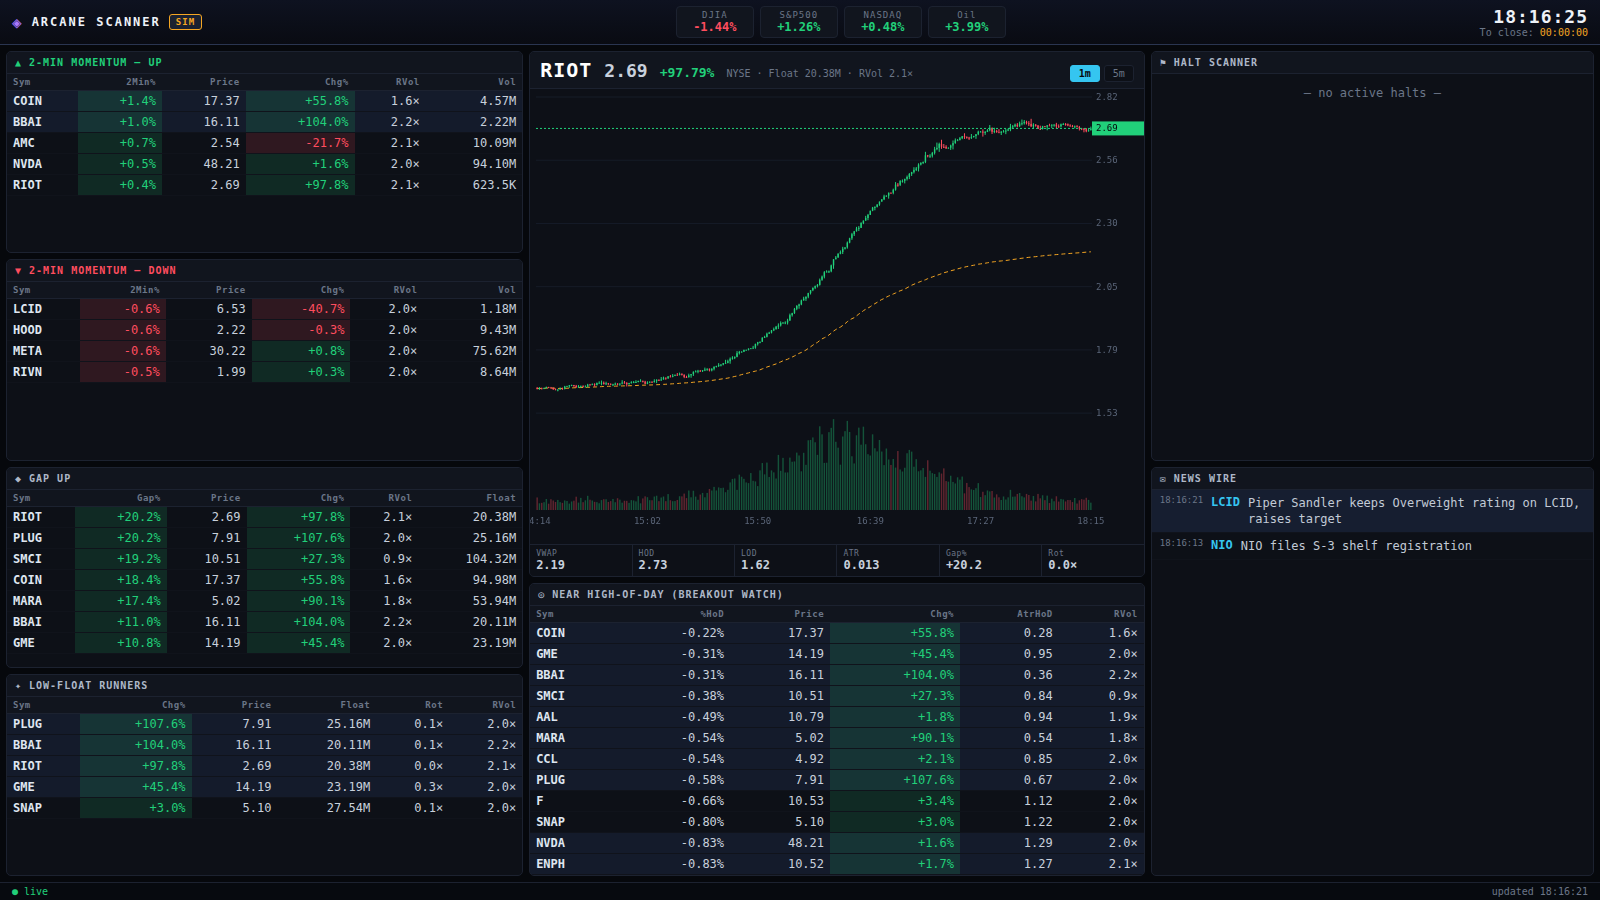
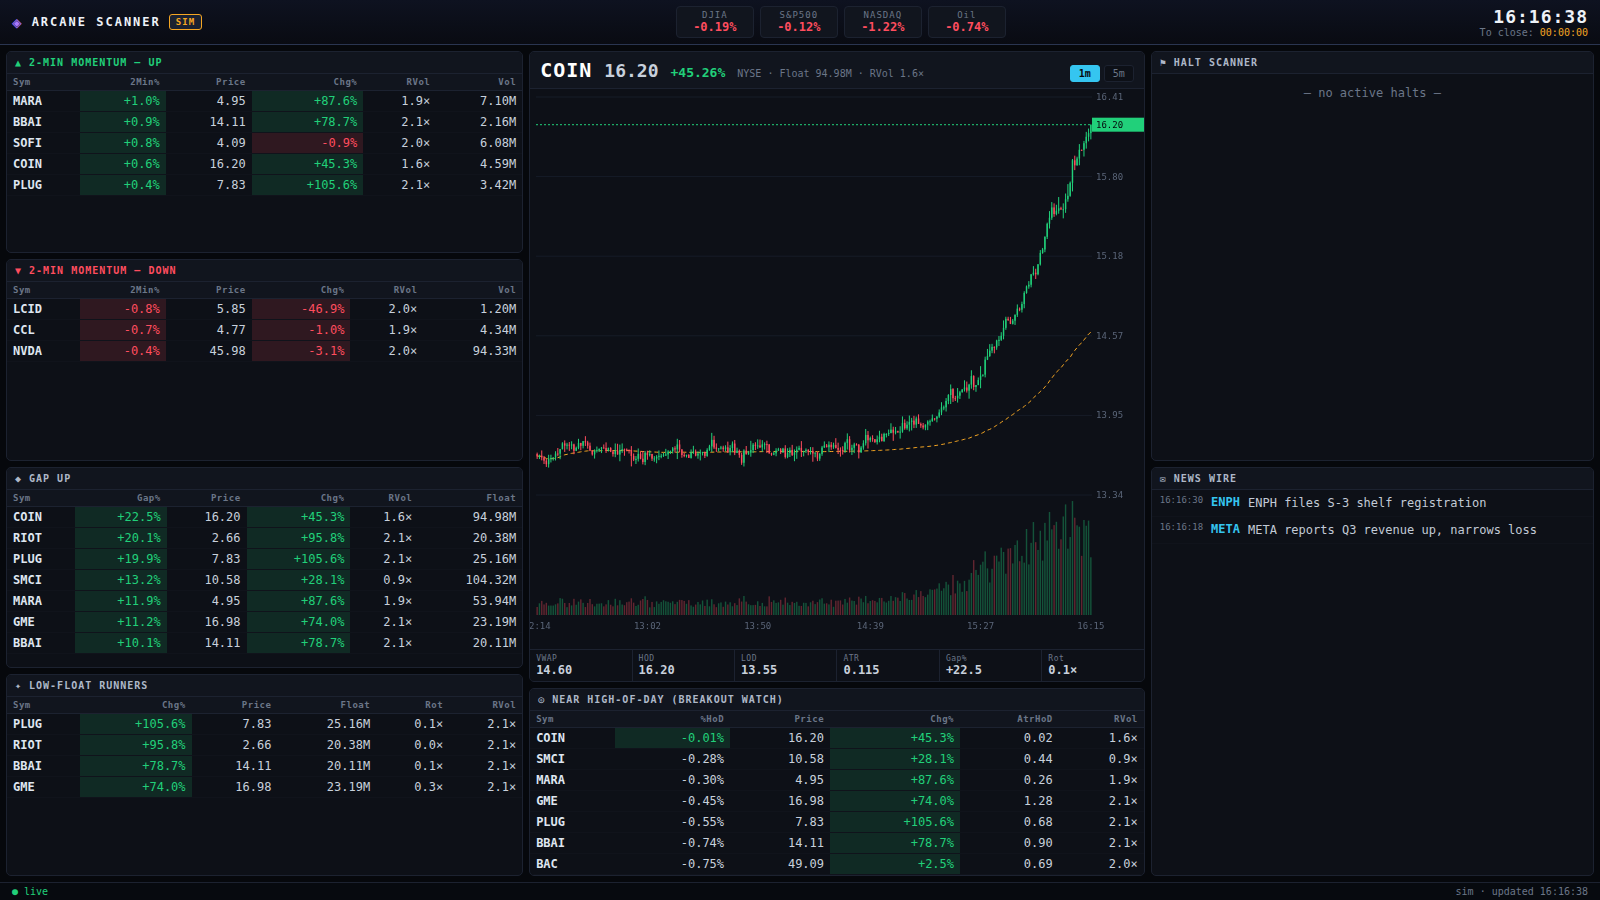
Make it bulletproof to launch and load
Addresses "it won't load" and simplifies running it:

- Add one-command launcher start.py (installs deps, starts server, opens
  browser) plus double-click wrappers Start-Windows.bat / Start-Mac.command
  so no terminal juggling is needed.
- Frontend now loads data over plain HTTP first and uses the websocket only
  for live push, with an automatic HTTP polling fallback — a blocked or slow
  websocket can no longer leave a blank page.
- Add an explicit loading state and dedupe repeated snapshots.
- Switch backend startup to the modern lifespan handler (the deprecated
  on_event can misbehave on newer FastAPI / Python 3.14).
- Serve chart candles from the cached snapshot instead of firing a fresh
  Yahoo download on every chart update.
- Yahoo provider falls back to coarser bars when 1-min data is empty
  (after hours / weekends) so panels still populate.

Claude-Session: https://claude.ai/code/session_01Eh5fowTrvjD9c8LqqE4Hmn

diff --git a/frontend/app.js b/frontend/app.js
@@ -279,11 +279,21 @@ function tickClock() {
 }
 
 /* ---------- snapshot ---------- */
+let lastUpdated = -1;
 function applySnapshot(msg) {
+  if (!msg || msg.updated === lastUpdated) return;   // skip duplicates
+  lastUpdated = msg.updated;
   state.serverOffset = msg.server_time - Date.now() / 1000;
+
   const tag = $("provider-tag");
   tag.textContent = msg.provider === "yahoo" ? "LIVE" : "SIM";
   tag.className = "tag " + (msg.provider === "yahoo" ? "live" : "sim");
+
+  if (msg.loading) {
+    $("status").textContent = "● loading market data…";
+    $("status").className = "";
+    return;   // nothing to render yet
+  }
 
   Object.keys(SCAN_COLS).forEach((id) => renderScan(id, msg.scans[id]));
   renderHalts(msg.halts);
@@ -293,27 +303,49 @@ function applySnapshot(msg) {
   if (!state.focus) {
     // default to the strongest runner so the chart opens on something moving
     const first = (msg.scans.gappers[0] || msg.scans.momo_up[0] ||
-                   msg.scans.low_float_runners[0] || { symbol: msg.focus[0] });
-    if (first) selectFocus(first.symbol);
+                   msg.scans.low_float_runners[0] ||
+                   (msg.focus && { symbol: msg.focus[0] }));
+    if (first && first.symbol) selectFocus(first.symbol);
   } else {
-    // refresh focus header from latest scan rows if present
-    loadBars();
+    loadBars();   // keep the focused chart fresh
   }
-  $("last-update").textContent = "updated " + hhmmss(msg.updated);
+  $("last-update").textContent =
+    (msg.provider === "yahoo" ? "live · " : "sim · ") + "updated " + hhmmss(msg.updated);
 }
 
-/* ---------- websocket ---------- */
-function connect() {
+/* ---------- data transport: HTTP first, websocket for live push ---------- */
+async function fetchSnapshotOnce() {
+  try {
+    const r = await fetch("/api/snapshot", { cache: "no-store" });
+    if (r.ok) applySnapshot(await r.json());
+    return true;
+  } catch (e) { return false; }
+}
+
+let wsConnected = false;
+function connectWS() {
   const proto = location.protocol === "https:" ? "wss" : "ws";
-  const sock = new WebSocket(`${proto}://${location.host}/ws`);
+  let sock;
+  try { sock = new WebSocket(`${proto}://${location.host}/ws`); }
+  catch (e) { return; }
   const st = $("status");
-  sock.onopen = () => { st.textContent = "● live"; st.className = "ok"; };
+  sock.onopen = () => {
+    wsConnected = true;
+    st.textContent = "● live"; st.className = "ok";
+  };
   sock.onmessage = (ev) => applySnapshot(JSON.parse(ev.data));
   sock.onclose = () => {
-    st.textContent = "● disconnected — retrying"; st.className = "err";
-    setTimeout(connect, 2000);
+    wsConnected = false;
+    st.textContent = "● reconnecting…"; st.className = "err";
+    setTimeout(connectWS, 2000);
   };
-  sock.onerror = () => sock.close();
+  sock.onerror = () => { try { sock.close(); } catch (e) {} };
+}
+
+/* Polling fallback: if the websocket never connects (e.g. blocked by a
+ * firewall/proxy), keep the dashboard live over plain HTTP. */
+function startPollingFallback() {
+  setInterval(() => { if (!wsConnected) fetchSnapshotOnce(); }, 5000);
 }
 
 /* ---------- boot ---------- */
@@ -328,4 +360,14 @@ document.querySelectorAll(".tf").forEach((btn) => {
 window.addEventListener("resize", () => drawChart());
 setInterval(tickClock, 1000);
 tickClock();
-connect();
+
+// Render whatever's available right now over HTTP, then attach the live feed.
+$("status").textContent = "● loading…";
+fetchSnapshotOnce();
+connectWS();
+startPollingFallback();
+// keep retrying the first fetch until data arrives
+const bootPoll = setInterval(async () => {
+  if (lastUpdated > 0) { clearInterval(bootPoll); return; }
+  await fetchSnapshotOnce();
+}, 1500);

diff --git a/backend/main.py b/backend/main.py
@@ -1,10 +1,12 @@
 """FastAPI app: REST endpoints + a websocket that streams scans live.
 
-Run with:  uvicorn backend.main:app --reload   (or ./run.sh)
+Run with:  python start.py        (recommended, cross-platform)
+       or  uvicorn backend.main:app
 """
 from __future__ import annotations
 
 import asyncio
+import contextlib
 import time
 from pathlib import Path
 
@@ -19,9 +21,13 @@ from backend.providers.factory import make_provider
 
 FRONTEND_DIR = Path(__file__).resolve().parent.parent / "frontend"
 
-app = FastAPI(title="Stock Scanner / Trade Ideas Dashboard")
-
 provider, provider_name = make_provider(config.UNIVERSE)
+
+
+def _interval() -> float:
+    """Live data polls slower than the simulator to respect rate limits."""
+    return (config.LIVE_REFRESH_SECONDS if provider_name == "yahoo"
+            else config.REFRESH_SECONDS)
 
 
 class Snapshot:
@@ -33,20 +39,30 @@ class Snapshot:
         self.news: list[dict] = []
         self.indices: list[dict] = []
         self.halts: list[dict] = []
+        self.bars: dict[str, list] = {}   # symbol -> list[Bar] (1-min session)
         self.updated: float = 0.0
+        self.error: str = ""
         self.provider = provider_name
 
     def refresh(self):
         quotes = provider.get_quotes(config.UNIVERSE)
         now = time.time()
-        rows = [m for q in quotes if (m := metrics_engine.compute(q, now))]
+        rows = []
+        bars = {}
+        for q in quotes:
+            m = metrics_engine.compute(q, now)
+            if m:
+                rows.append(m)
+                bars[q.symbol] = q.bars
         self.rows = rows
+        self.bars = bars
         self.scans = scanners.run_all(rows)
         self.news = [n.__dict__ for n in provider.get_news(30)]
         self.indices = [i.__dict__ for i in provider.get_indices()]
         halts_fn = getattr(provider, "get_halts", None)
         if halts_fn:
             self.halts = [h.__dict__ for h in halts_fn()]
+        self.error = "" if rows else "no market data returned"
         self.updated = now
 
     def payload(self) -> dict:
@@ -55,6 +71,8 @@ class Snapshot:
             "provider": self.provider,
             "updated": self.updated,
             "server_time": time.time(),
+            "loading": self.updated == 0.0,
+            "error": self.error,
             "scans": self.scans,
             "news": self.news,
             "indices": self.indices,
@@ -66,27 +84,29 @@ class Snapshot:
 snapshot = Snapshot()
 
 
-def _interval() -> float:
-    """Live data polls slower than the simulator to respect rate limits."""
-    return (config.LIVE_REFRESH_SECONDS if provider_name == "yahoo"
-            else config.REFRESH_SECONDS)
-
-
-@app.on_event("startup")
-async def _startup():
-    # Don't block startup on the first (possibly slow) live fetch — let the
-    # server come up immediately and populate on the background loop.
-    asyncio.create_task(_refresh_loop())
-
-
 async def _refresh_loop():
     interval = _interval()
     while True:
         try:
             await asyncio.to_thread(snapshot.refresh)
         except Exception as e:  # noqa: BLE001
+            snapshot.error = str(e)
             print(f"[refresh] error: {e}")
         await asyncio.sleep(interval)
+
+
+@contextlib.asynccontextmanager
+async def lifespan(app: FastAPI):
+    # Start the background refresh without blocking server startup, so the
+    # page is reachable immediately and fills in as data arrives.
+    task = asyncio.create_task(_refresh_loop())
+    yield
+    task.cancel()
+    with contextlib.suppress(asyncio.CancelledError):
+        await task
+
+
+app = FastAPI(title="Stock Scanner / Trade Ideas Dashboard", lifespan=lifespan)
 
 
 # --- REST -----------------------------------------------------------------
@@ -119,14 +139,19 @@ def get_quote(symbol: str):
 
 @app.get("/api/bars/{symbol}")
 def get_bars(symbol: str, interval: str = "1m"):
-    """Return session candles for the chart. interval: 1m or 5m."""
-    quotes = provider.get_quotes([symbol.upper()])
-    if not quotes or not quotes[0].bars:
+    """Return session candles for the chart, served from the cached snapshot
+    (refreshed on the background loop) so opening a chart never triggers an
+    extra live fetch."""
+    sym = symbol.upper()
+    bars = snapshot.bars.get(sym)
+    if not bars:                       # fall back to an on-demand fetch
+        quotes = provider.get_quotes([sym])
+        bars = quotes[0].bars if quotes else None
+    if not bars:
         return JSONResponse({"error": "no data"}, status_code=404)
-    bars = quotes[0].bars
     if interval == "5m":
         bars = _resample(bars, 5)
-    return {"symbol": symbol.upper(), "interval": interval,
+    return {"symbol": sym, "interval": interval,
             "bars": [b.as_dict() for b in bars]}
 
 

diff --git a/start.py b/start.py
@@ -1,0 +1,74 @@
+#!/usr/bin/env python3
+"""One-command launcher for the Stock Scanner dashboard.
+
+Does everything for you:
+  1. installs any missing Python packages,
+  2. starts the server,
+  3. opens the dashboard in your browser.
+
+Run it with:   python start.py       (Windows)
+           or  python3 start.py      (Mac / Linux)
+
+Environment overrides (optional):
+  SCANNER_PROVIDER=simulated   force the offline demo (no internet needed)
+  SCANNER_PORT=8000            change the port
+"""
+from __future__ import annotations
+
+import os
+import subprocess
+import sys
+import threading
+import time
+import webbrowser
+
+PORT = int(os.environ.get("SCANNER_PORT", "8000"))
+URL = f"http://localhost:{PORT}"
+
+
+def ensure_dependencies() -> None:
+    try:
+        import fastapi  # noqa: F401
+        import uvicorn  # noqa: F401
+        import yfinance  # noqa: F401
+        return
+    except ImportError:
+        pass
+    print("→ Installing required packages (first run only)…\n")
+    req = os.path.join(os.path.dirname(os.path.abspath(__file__)), "requirements.txt")
+    subprocess.check_call([sys.executable, "-m", "pip", "install", "-r", req])
+    print("\n→ Packages installed.\n")
+
+
+def open_browser_when_ready() -> None:
+    # Give the server a moment to bind, then open the browser once.
+    time.sleep(2.5)
+    print(f"\n★ Opening the dashboard at {URL}")
+    print("  (If it doesn't open automatically, paste that address into your browser.)")
+    print("  Press Ctrl+C in this window to stop.\n")
+    try:
+        webbrowser.open(URL)
+    except Exception:
+        pass
+
+
+def main() -> None:
+    os.chdir(os.path.dirname(os.path.abspath(__file__)))
+    ensure_dependencies()
+
+    provider = os.environ.get("SCANNER_PROVIDER", "auto")
+    print("=" * 60)
+    print("  STOCK SCANNER — Trade Ideas Dashboard")
+    print(f"  data source : {provider}  (live Yahoo, falls back to simulator)")
+    print(f"  address     : {URL}")
+    print("=" * 60)
+
+    threading.Thread(target=open_browser_when_ready, daemon=True).start()
+
+    import uvicorn
+    uvicorn.run("backend.main:app", host="127.0.0.1", port=PORT,
+                access_log=False, log_level="info")
+
+
+if __name__ == "__main__":
+    main()

diff --git a/backend/providers/yahoo.py b/backend/providers/yahoo.py
@@ -99,13 +99,19 @@ class YahooProvider:
             self._refresh_meta(symbols)
 
     # -- provider API ------------------------------------------------------
-    def get_quotes(self, symbols: list[str]) -> list[Quote]:
-        yf = self._yf
-        self._ensure_meta(symbols)
-        data = yf.download(
-            tickers=" ".join(symbols), period="1d", interval="1m",
+    def _download(self, symbols, period, interval):
+        return self._yf.download(
+            tickers=" ".join(symbols), period=period, interval=interval,
             group_by="ticker", threads=True, progress=False, auto_adjust=False,
         )
+
+    def get_quotes(self, symbols: list[str]) -> list[Quote]:
+        self._ensure_meta(symbols)
+        # Intraday first; if the market's been closed a while and 1-min data is
+        # empty, fall back to coarser bars so the dashboard still populates.
+        data = self._download(symbols, "1d", "1m")
+        if data is None or getattr(data, "empty", True):
+            data = self._download(symbols, "5d", "5m")
         quotes: list[Quote] = []
         for sym in symbols:
             try:

diff --git a/README.md b/README.md
@@ -37,20 +37,39 @@ it.
 
 ---
 
-## Quick start
+## Quick start — the easy way
+
+**Windows:** double-click **`Start-Windows.bat`**
+**macOS:** double-click **`Start-Mac.command`**
+
+That's it — it installs what it needs, starts the server, and opens the
+dashboard in your browser automatically.
+
+### Or from a terminal (any OS)
 
 ```bash
-pip install -r requirements.txt
-./run.sh                       # → http://localhost:8000
+python start.py          # installs deps, launches, opens the browser
 ```
 
-Or force the offline demo (no network needed):
+Force the always-lively offline demo (no internet needed):
 
 ```bash
-SCANNER_PROVIDER=simulated ./run.sh
+# macOS / Linux
+SCANNER_PROVIDER=simulated python start.py
+# Windows PowerShell
+$env:SCANNER_PROVIDER="simulated"; python start.py
 ```
 
-Then open **http://localhost:8000**.
+The dashboard is served at **http://localhost:8000**. In the top-left, the tag
+reads **LIVE** when it's pulling real market data and **SIM** when using the
+simulator.
+
+> **About the data:** live mode uses Yahoo Finance (no API key). It's real
+> market data refreshed every ~15s. Yahoo's free intraday feed carries a small
+> delay (it isn't tick-by-tick), and the scanners naturally look busiest
+> **during US market hours** (9:30 AM–4:00 PM ET, weekdays). For true
+> tick-level real-time you'd add a paid feed (Polygon/Finnhub) — the provider
+> layer makes that a one-file change.
 
 ---
 
